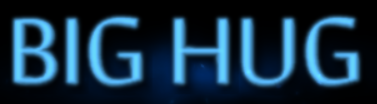
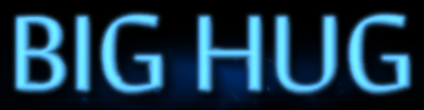
messages can make sense?

diff --git a/content/docs/seedlang/index.md b/content/docs/seedlang/index.md
@@ -654,8 +654,8 @@ on binding1 item_message(
 You can further customize messages styles with XML tags:
 
 - `<hex_(color)>(text)</>` will apply `(color)` to `(text)`. `(color)` has to be 8 hexadecimal digits, two each for red, green, blue and alpha.
-- `<s_(font size)>(text)</>` will apply `(font size)` to `(text)`. `(font size)` is 1.14 by default.
-- `<ls_(line scale)>(text)</>` will apply `(line scale)` to `(text)`. `(line scale)` is ~0.82 by default. This has many caveats, see the notes below.
+- `<s_(font size)>(text)</>` will apply `(font size)` to `(text)`. `(font size)` is 1 by default.
+- `<ls_(line scale)>(text)</>` will apply `(line scale)` to `(text)`. `(line scale)` is 1 by default. Note that the parent font size is inherited, so `<s_2><ls_2>text` gives line scale 4 while `<ls_2><s_2>text` gives line scale 2.
 
 ##### Examples
 
@@ -672,18 +672,10 @@ on binding1 item_message("<s_3>*BIG HUG*</>")
 ![example message with font size](/images/messagefontsize.png)
 
 ```seed
-on binding1 item_message("<ls_1.5>Very \n far \n apart</>")
+on binding1 item_message("<ls_1.5>Very\n" + "far\n" + "apart</>")
 ```
 
 ![example message with line size](/images/messagelinesize.png)
-
-##### Notes
-
-Line scale may behave strangely - it's vanilla behaviour, we can't change it easily.
-
-If a line scale is started inside a font size tag, it will inherit that font size and use it as a multiplier. So for example, `<s_2><ls_2>TEXT` will render the text at font size 2 and at line scale 4. To avoid confusion, always put the line scale tag outside. `<ls_2><s_2>TEXT` will render at line scale 2 and font size 2 like you'd expect.
-
-Additionally, the line height won't be calculated correctly if any part of the line is not inside the line scale tag. For example, `<ls_0.5>Line 1\nLine 2\nLine 3` will not produce three evenly spaced lines because the start of the first line is not inside the line scale tag (even though there are no visible characters there), so the first line will be bigger. As a workaround, you might be able to use something like `<ls_0.2><ls_-0.4>\n\n</><s_0.5>Line 1\nLine 2\nLine 3`, utilizing negative line scale to undo the incorrectly scaled first line (which contains no visible text in this case). Note the lack of closing tags - if you would close the line scale tag with `</>`, the end of the last line will not have the line scale anymore, so its height would be calculated incorrectly.
 
 #### Controls
 
